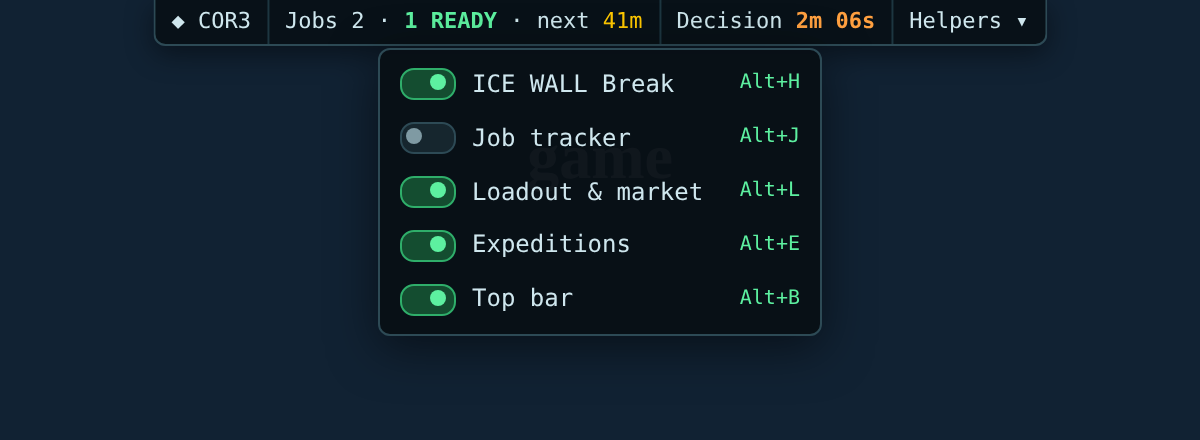
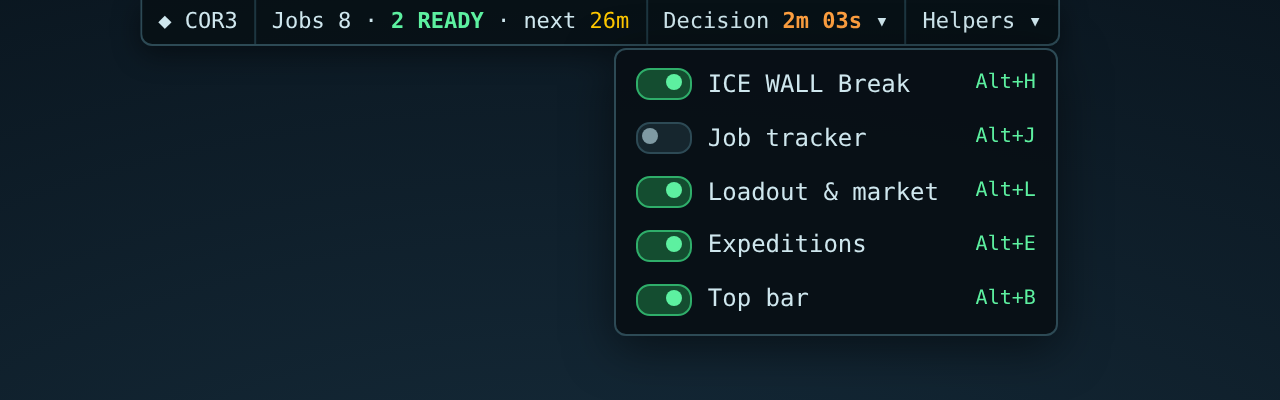
Top bar menus open under their button; decision shows its choices; job panel keeps its scroll
The job panel was rewritten every second for the countdowns, which threw the
list back to the top. Countdowns now update in place and the panel is only
rewritten when its content changes, keeping the scroll position.

Claude-Session: https://claude.ai/code/session_01YcDZAmPw7BX84YJZoVe9UW

Changed region(s): [[0.0925, 0.0, 0.8633, 0.84]]

diff --git a/topbar.js b/topbar.js
@@ -53,9 +53,9 @@
     for (const d of decs.values()) {
       const t = toMs(d.deadline);
       if (d.isResolved || !(t > Date.now())) continue;
-      if (soonest == null || t < soonest) soonest = t;
+      if (!soonest || t < soonest.t) soonest = { t, d };
     }
-    return soonest == null ? null : { ms: soonest - Date.now(), text: left(soonest) };
+    return soonest && { ms: soonest.t - Date.now(), text: left(soonest.t), dec: soonest.d };
   }
 
   // ---------- bar ----------
@@ -77,7 +77,7 @@
     .bad { color: #ff8a70; font-weight: 700; }
     .dim { color: #7f9aa3; }
     .t { color: #ffc800; }
-    .menu { position: fixed; top: 24px; left: 50%; transform: translateX(-50%); z-index: 2147483645; min-width: 220px;
+    .menu { position: fixed; top: 24px; z-index: 2147483645; min-width: 220px; max-width: 360px;
             background: rgba(8,16,22,.97); border: 1px solid #2d4a55; border-radius: 6px; padding: 4px 0;
             color: #cfe7ee; font: 12px/1.4 ui-monospace, Consolas, monospace; box-shadow: 0 6px 24px rgba(0,0,0,.5); }
     .row { all: unset; box-sizing: border-box; display: flex; align-items: center; gap: 8px; width: 100%;
@@ -85,13 +85,18 @@
     .row:hover { background: #10222b; }
     .row .n { flex: 1; }
     .row kbd { color: #5df0a0; font: inherit; font-size: 10px; }
+    .opt { padding: 5px 10px; border-top: 1px solid #16262e; }
+    .opt:first-of-type { border-top: none; }
+    .opt .l { color: #e6f6fa; font-weight: 700; }
+    .opt .v { font-size: 11px; }
+    .head { padding: 3px 10px 5px; color: #7f9aa3; font-size: 11px; border-bottom: 1px solid #2d4a55; }
     .sw { width: 26px; height: 14px; border-radius: 7px; border: 1px solid #2d4a55; background: #16262e; position: relative; }
     .sw::after { content: ""; position: absolute; top: 2px; left: 2px; width: 8px; height: 8px; border-radius: 50%; background: #7f9aa3; }
     .sw.on { background: #144d30; border-color: #2fae6a; }
     .sw.on::after { left: 14px; background: #5df0a0; }
   `;
 
-  let host, root, bar, menu, menuOpen = false, lastHtml = "";
+  let host, root, bar, menu, openMenu = null, lastHtml = "";
 
   function ensure() {
     if (host && document.documentElement.contains(host)) return true;
@@ -113,8 +118,8 @@
 
     bar.addEventListener("click", (e) => {
       const act = e.target.closest("[data-act]")?.dataset.act;
-      if (act === "min") { state.min = !state.min; menuOpen = false; save(); }
-      if (act === "menu") menuOpen = !menuOpen;
+      if (act === "min") { state.min = !state.min; openMenu = null; save(); }
+      if (act === "helpers" || act === "decision") openMenu = openMenu === act ? null : act;
       if (act === "jobs") toggles().jobs?.set(true);
       render(true);
     });
@@ -126,7 +131,7 @@
     });
     // A click anywhere else closes the menu.
     window.addEventListener("mousedown", (e) => {
-      if (menuOpen && !e.composedPath().includes(host)) { menuOpen = false; render(true); }
+      if (openMenu && !e.composedPath().includes(host)) { openMenu = null; render(true); }
     }, true);
     return true;
   }
@@ -147,10 +152,10 @@
 
     const d = decisionInfo();
     if (d) {
-      parts.push(`<span class="seg" title="An expedition is waiting for your decision">Decision <span class="${d.ms < 60e3 ? "bad" : "warn"}">${d.text}</span></span>`);
+      parts.push(`<button class="seg" data-act="decision" title="Show the choices with their exact risk and loot">Decision <span class="${d.ms < 60e3 ? "bad" : "warn"}">${d.text}</span> &#9662;</button>`);
     }
 
-    parts.push(`<button class="seg" data-act="menu" title="Switch helpers">Helpers &#9662;</button>`);
+    parts.push(`<button class="seg" data-act="helpers" title="Switch helpers">Helpers &#9662;</button>`);
     return parts.join("");
   }
 
@@ -163,6 +168,35 @@
     }).join("");
   }
 
+  // The open decision's choices with their exact numbers, from the expedition data.
+  const esc = (x) => String(x ?? "").replace(/[&<>"']/g, (c) => ({ "&": "&amp;", "<": "&lt;", ">": "&gt;", '"': "&quot;", "'": "&#39;" }[c]));
+  const num = (n, goodUp) => {
+    if (typeof n !== "number") return `<span class="dim">?</span>`;
+    const cls = n === 0 ? "dim" : (n > 0) === goodUp ? "ok" : "bad";
+    return `<span class="${cls}">${n > 0 ? "+" : n < 0 ? "&minus;" : "&plusmn;"}${Math.abs(n)}</span>`;
+  };
+  function decisionHtml() {
+    const d = decisionInfo();
+    if (!d) return `<div class="head">No decision open.</div>`;
+    const risk = d.dec.riskScore;
+    let html = `<div class="head">${typeof risk === "number" ? `Mission risk now ${risk}. ` : ""}Pick in the game's window.</div>`;
+    for (const o of d.dec.options || []) {
+      const after = typeof risk === "number" && typeof o.riskModifier === "number"
+        ? ` &middot; <span class="dim">risk &rarr; ${Math.max(0, Math.min(100, risk + o.riskModifier))}</span>` : "";
+      html += `<div class="opt"><div class="l">${esc(o.label)}</div><div class="v">Risk ${num(o.riskModifier, false)} &middot; Loot ${num(o.lootModifier, true)}${after}</div></div>`;
+    }
+    return html;
+  }
+
+  // Line the open menu up under its button, right edges together.
+  function placeMenu() {
+    const btn = bar.querySelector(`[data-act="${openMenu}"]`);
+    if (!btn) { openMenu = null; return; }
+    const r = btn.getBoundingClientRect();
+    menu.style.top = r.bottom + 2 + "px";
+    menu.style.right = Math.max(8, window.innerWidth - r.right) + "px";
+  }
+
   function render(force) {
     if (!state.open) { if (host) host.style.display = "none"; return; }
     if (document.hidden && !force) return;
@@ -170,12 +204,17 @@
     host.style.display = "";
     const html = barHtml();
     if (html !== lastHtml) { bar.innerHTML = html; lastHtml = html; }
-    menu.hidden = !menuOpen || state.min;
-    if (!menu.hidden) menu.innerHTML = menuHtml();
+    if (state.min) openMenu = null;
+    if (openMenu) placeMenu();
+    menu.hidden = !openMenu;
+    if (openMenu) {
+      const html = openMenu === "helpers" ? menuHtml() : decisionHtml();
+      if (menu.innerHTML !== html) menu.innerHTML = html;
+    }
   }
 
   // Alt+B or the toolbar menu shows or hides the bar.
-  const setOpen = (on) => { state.open = on; if (!on) menuOpen = false; save(); render(true); };
+  const setOpen = (on) => { state.open = on; if (!on) openMenu = null; save(); render(true); };
   (window.__cor3Toggles = window.__cor3Toggles || {}).topbar = { get: () => state.open, set: setOpen };
   window.addEventListener("keydown", (e) => {
     if (e.altKey && !e.ctrlKey && !e.metaKey && e.key.toLowerCase() === "b") { e.preventDefault(); setOpen(!state.open); }

diff --git a/jobs.js b/jobs.js
@@ -268,7 +268,7 @@
     .desc { color: #9fb6bd; margin-top: 2px; }
   `;
 
-  let host, root, panel;
+  let host, root, panel, lastHtml = "";
   function ensurePanel() {
     if (panel && document.documentElement.contains(host)) return true;
     if (!document.body) return false;
@@ -286,6 +286,7 @@
     }
     panel = document.createElement("div");
     panel.className = "p";
+    lastHtml = "";
     root.appendChild(panel);
     document.body.appendChild(host);
 
@@ -438,7 +439,7 @@
         html += `<div class="job ${j.canComplete ? "ready" : ""} ${done ? "done" : ""}">
           <div class="t"><span class="n">${esc(j.name || j.id)}</span>
             ${j.canComplete ? `<span class="badge ok">READY</span>` : `<span class="badge">${esc(j.status)}</span>`}</div>`;
-        if (!done && j.endTime) html += `<div class="time">${esc(timeLeft(j))}</div>`;
+        if (!done && j.endTime) html += `<div class="time" data-end="${esc(j.endTime)}"></div>`;
         if (j.features?.[0]) html += `<div class="desc">${esc(j.features[0])}</div>`;
         if (items.length) {
           html += `<div class="sec">To do</div>`;
@@ -463,7 +464,25 @@
       const reset = shortLeft(m?.resetAt);
       html += `<div class="empty">${m?.at ? `Market (${when}): ${m.offers ?? "?"} offers, ${m.taken ?? "?"} taken.<br>` : ""}${reset ? `Jobs reset in ${reset}.<br>` : ""}${seen} servers known from the network map.</div></div>`;
     }
+    // Rewriting the panel resets its scroll and can swallow a click, so only
+    // write it when something other than the ticking countdowns changed.
+    if (html === lastHtml) return tickTimes();
+    const body = panel.querySelector(".b");
+    const scroll = body ? body.scrollTop : 0;
     panel.innerHTML = html;
+    lastHtml = html;
+    tickTimes();
+    const nb = panel.querySelector(".b");
+    if (nb) nb.scrollTop = scroll;
+  }
+
+  // Countdowns update in place, without redrawing the panel.
+  function tickTimes() {
+    if (!panel) return;
+    for (const el of panel.querySelectorAll(".time[data-end]")) {
+      const t = timeLeft({ endTime: el.dataset.end });
+      if (el.textContent !== t) el.textContent = t;
+    }
   }
 
   // Alt+J or the toolbar menu shows or hides the panel.

diff --git a/README.md b/README.md
@@ -142,7 +142,9 @@ nothing to say:
 - **Jobs 2 · 1 READY · next 42m**: your taken jobs, how many you can hand in, and the time left on the next job that
   still needs work (red under 15 minutes). Click it to open the job tracker. With no jobs taken it shows when the
   market's jobs reset.
-- **Decision 2m 10s**: an expedition is waiting for your choice, with the time left (red under a minute).
+- **Decision 2m 10s ▾**: an expedition is waiting for your choice, with the time left (red under a minute).
+  Click it to see every choice with its exact risk and loot change and the mission risk after it; you still pick
+  in the game's own window.
 - **Helpers ▾**: the same switches as the toolbar menu, so you don't have to leave the game.
 
 Click **◆ COR3** to shrink the bar to a single diamond, or press Alt+B to hide it. It remembers your choice.
